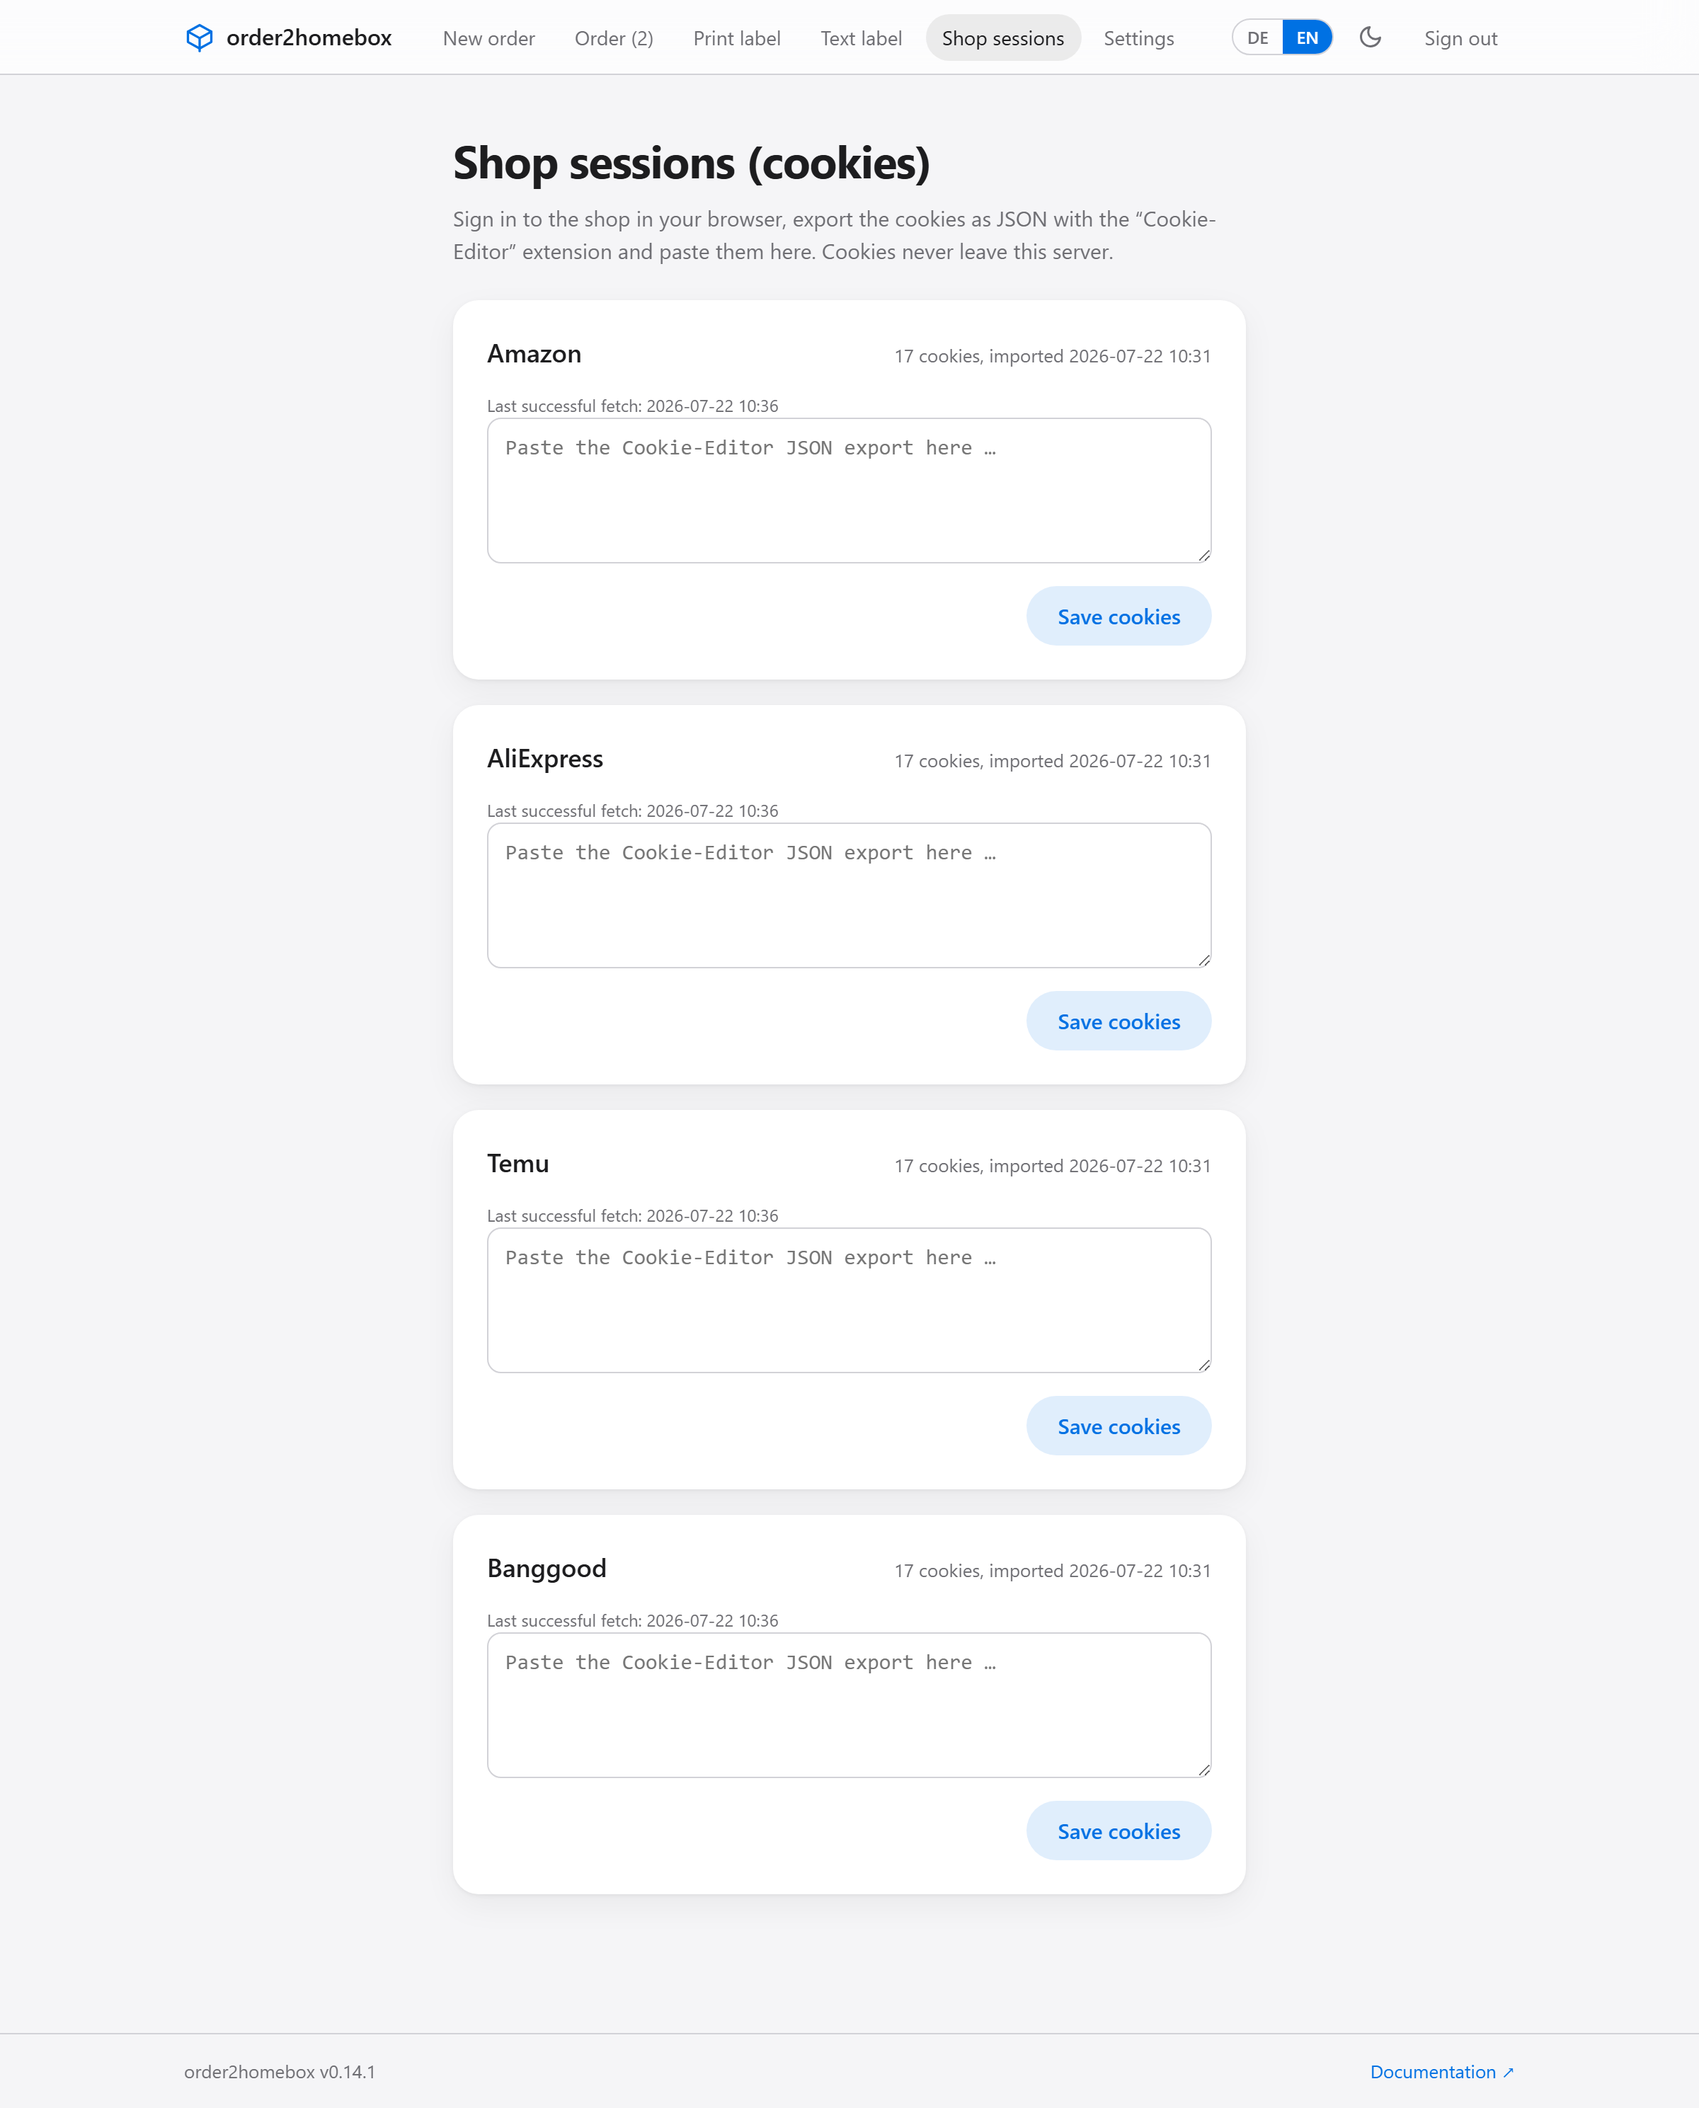
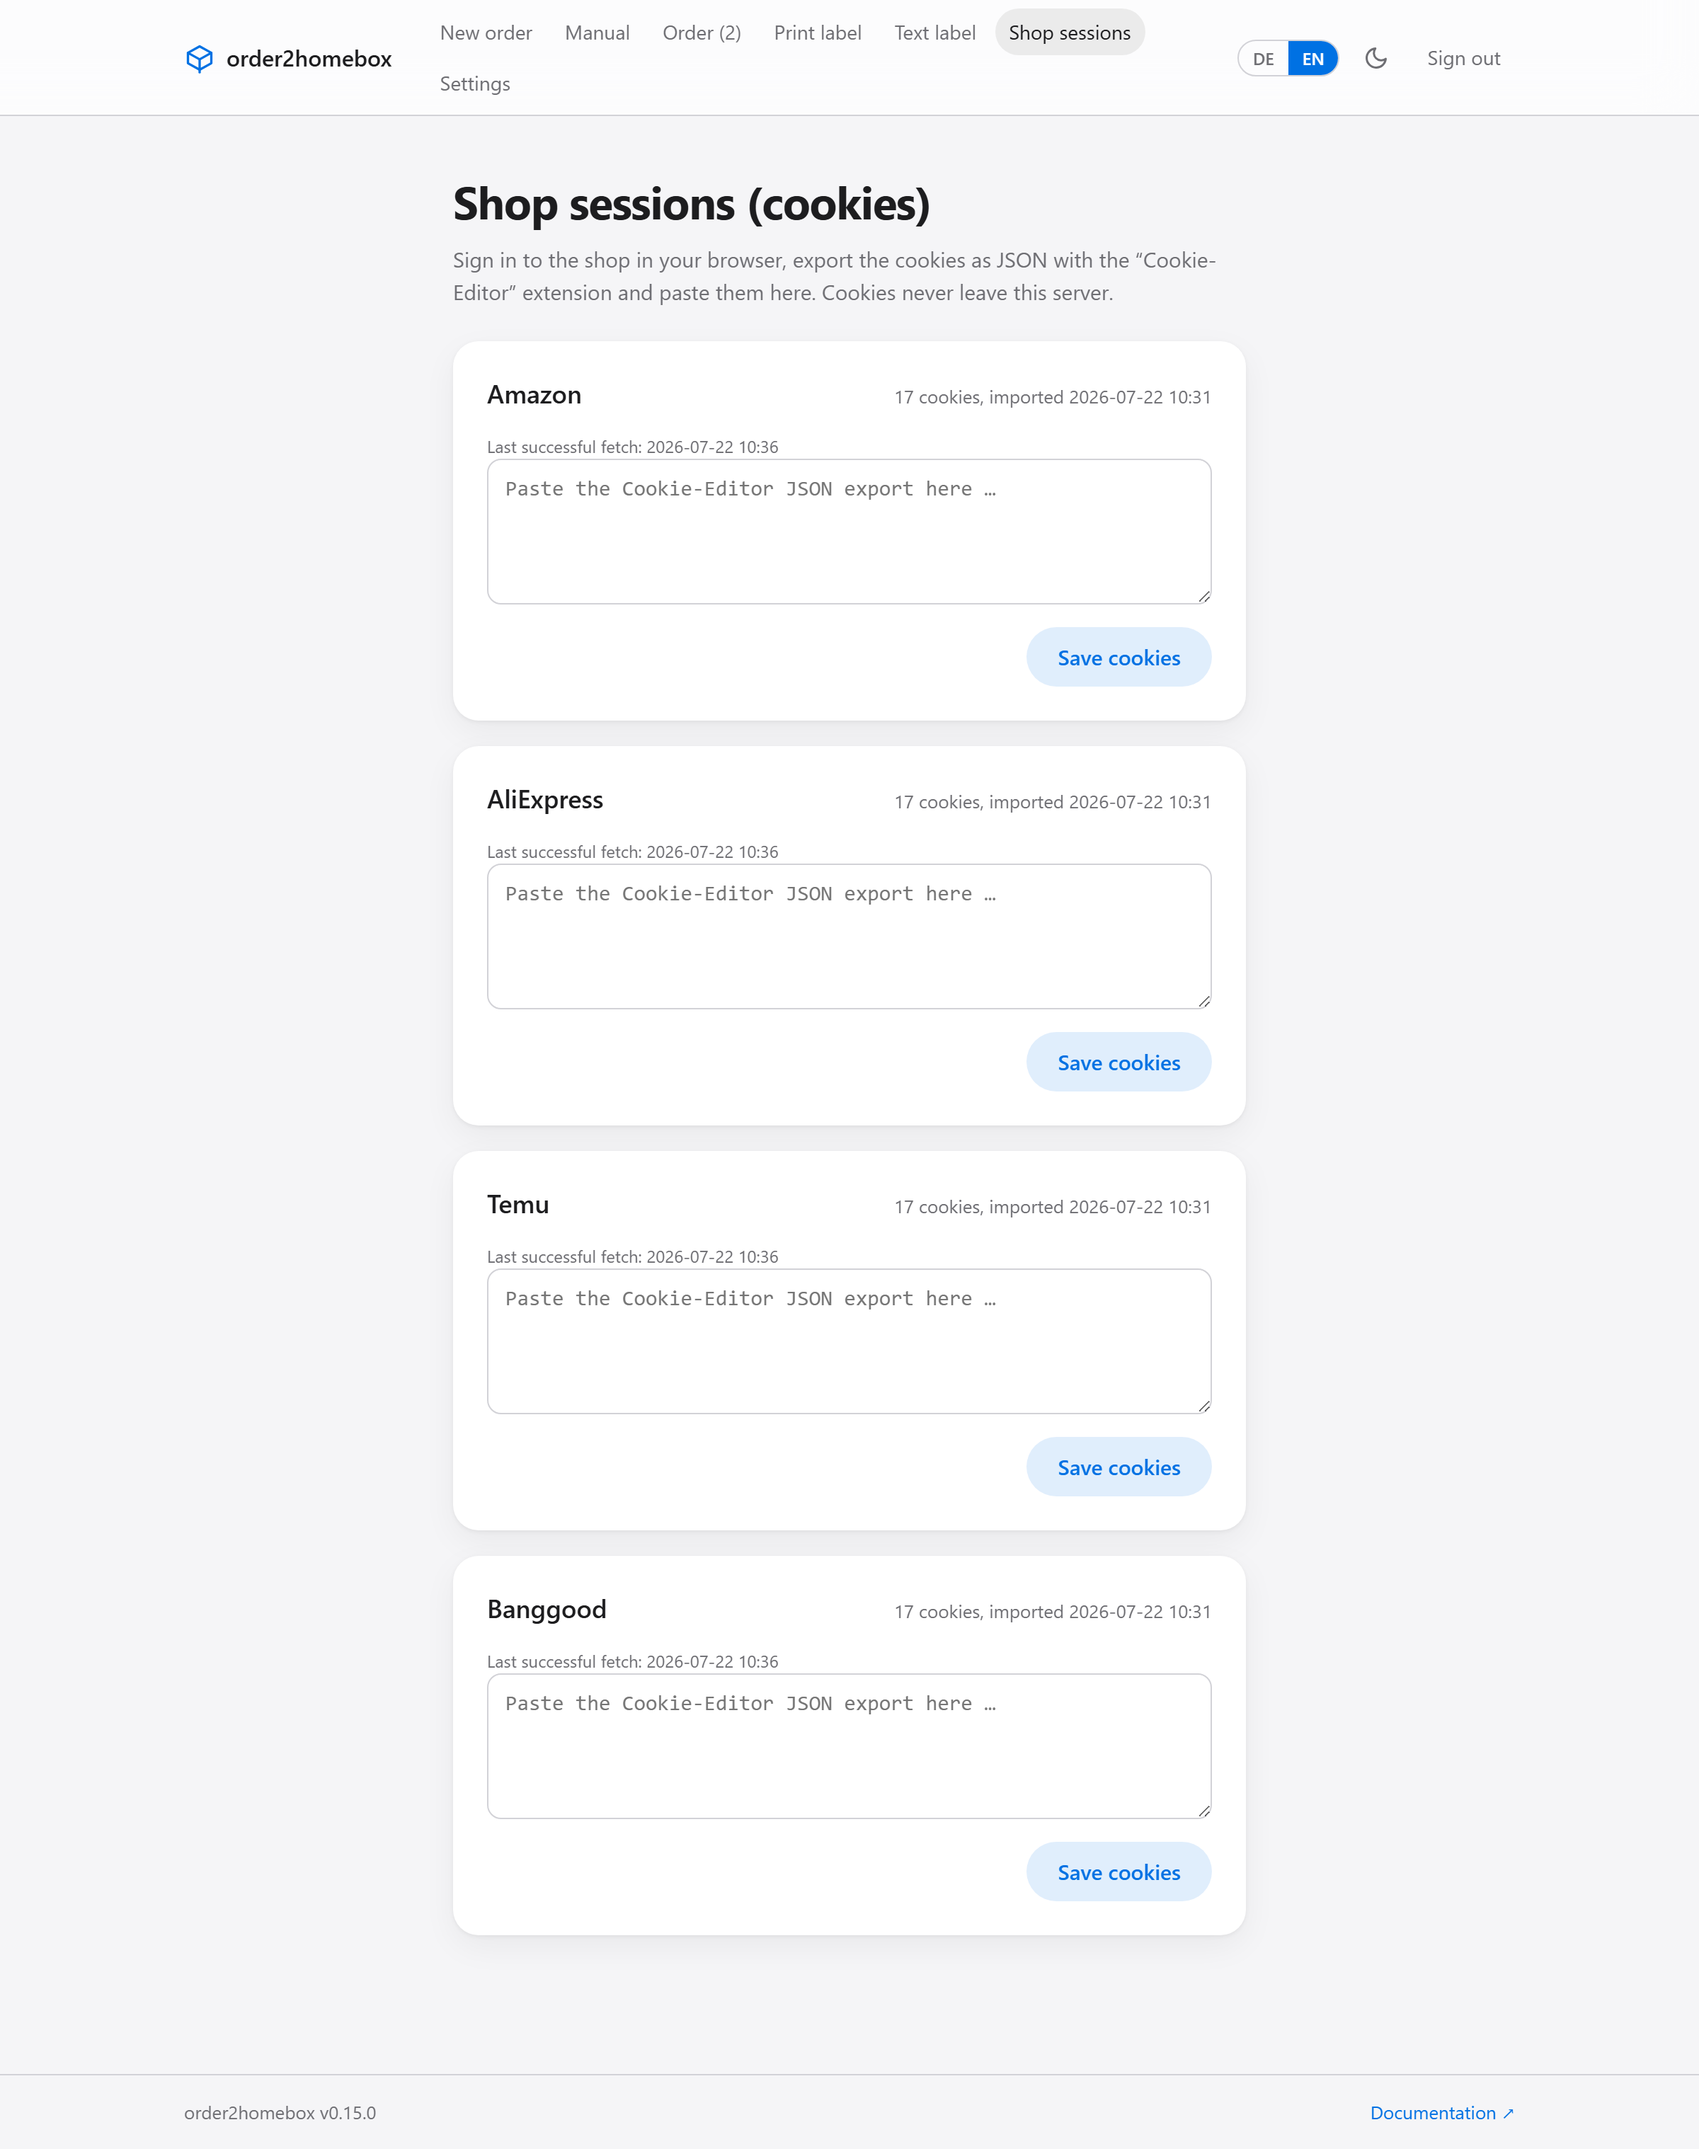
Document the manual page and refresh the screenshots for 0.15.0
The README knew nothing about entering items by hand except as a link on the
start page, which no longer exists. It gets a feature bullet for the series and
a shot of the page itself, filled in with a small part.

All six existing shots are taken again from the demo server: the navigation bar
changed on every page, and their footers still named 0.14.1.

Claude-Session: https://claude.ai/code/session_01Afi8DmSMM5SFd7AP5qky6T

diff --git a/README.md b/README.md
@@ -15,6 +15,11 @@ Enter an order number, review the scraped items, pick (or create) a storage loca
   last used is pre-selected for every item of the next order, and one button
   applies a card's location to all the other cards — an order usually goes to
   one and the same place.
+- ✍ **Items by hand, in series** — a *Manual* page for everything that never
+  came from an order page: the same form without a fetch behind it, the shop
+  simply typed. What you enter stays, and the card comes back filled in after
+  each item is created — a box of similar parts is a series of small changes,
+  not the same form typed out again every time.
 - 🏷 **QR labels** — DK-22211 (29 mm endless), exactly 306 px wide, two identical
   QR codes side by side (cut in half → two labels per asset), optional asset ID
   text — switchable per item right on its card, so a single item can get a bare
@@ -67,6 +72,13 @@ The shop above the items is a field of its own, so an order entered by hand is
 booked where it was really bought, and a wrong one can still be corrected after
 a fetch. *Sonstiges …* takes any shop name for the places the app has no scraper
 for — it reaches Homebox's purchase reference exactly as typed.
+
+![Add items by hand](docs/screenshot-manual.png)
+
+*Manual* is that same page without an order behind it — type where the thing
+came from, what it is and where it goes, and create it. The values stay for the
+next one, so entering ten kinds of screws is ten small changes rather than ten
+empty forms.
 
 ![Result](docs/screenshot-result.png)
 
